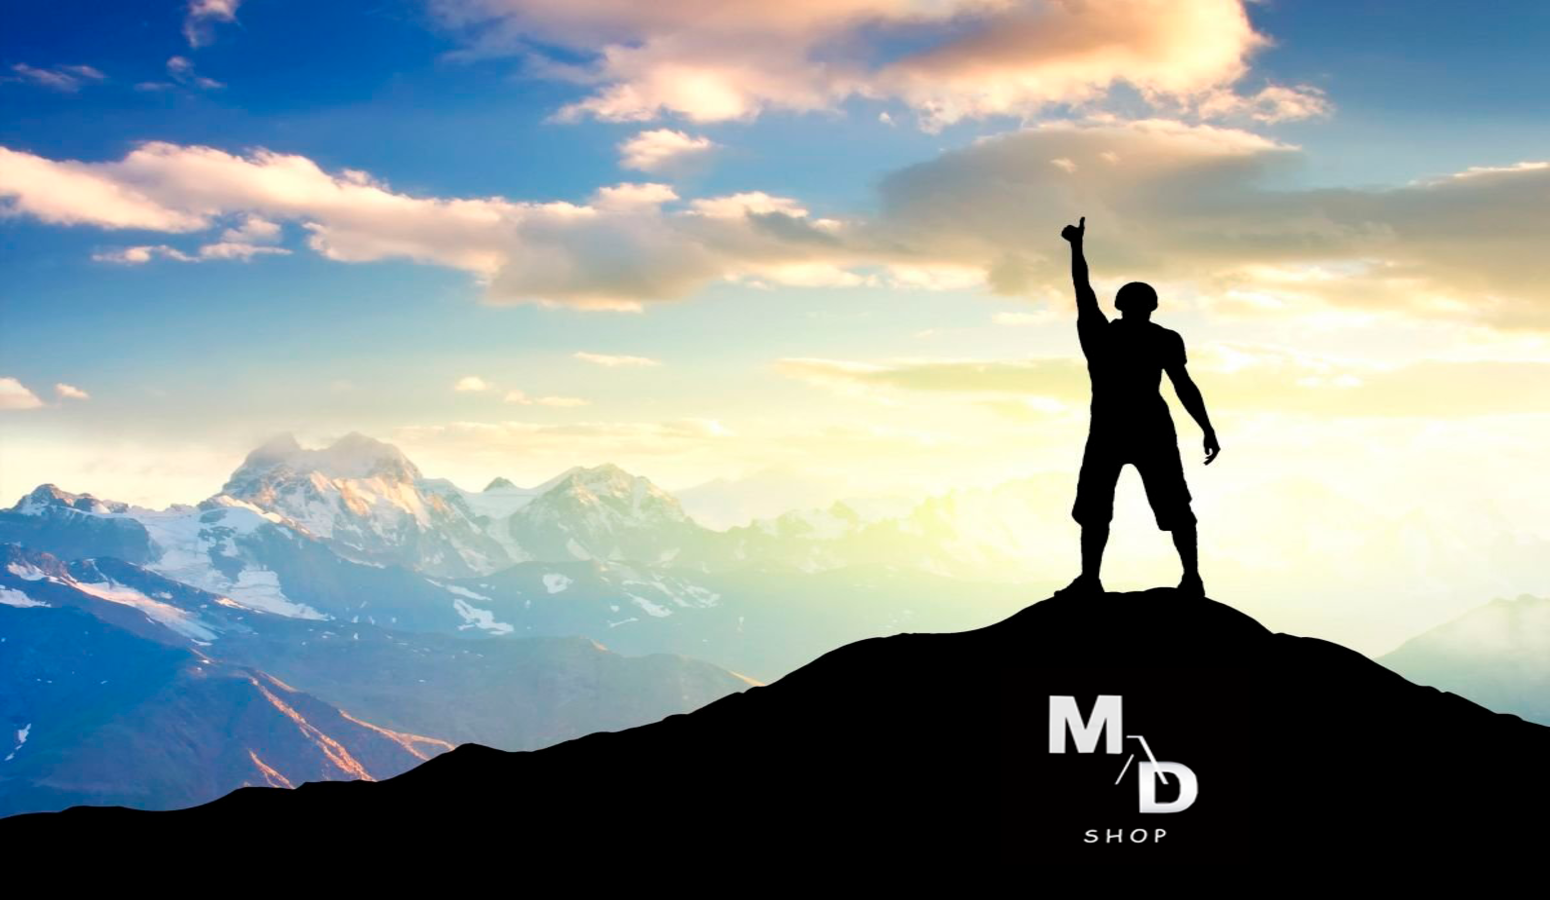
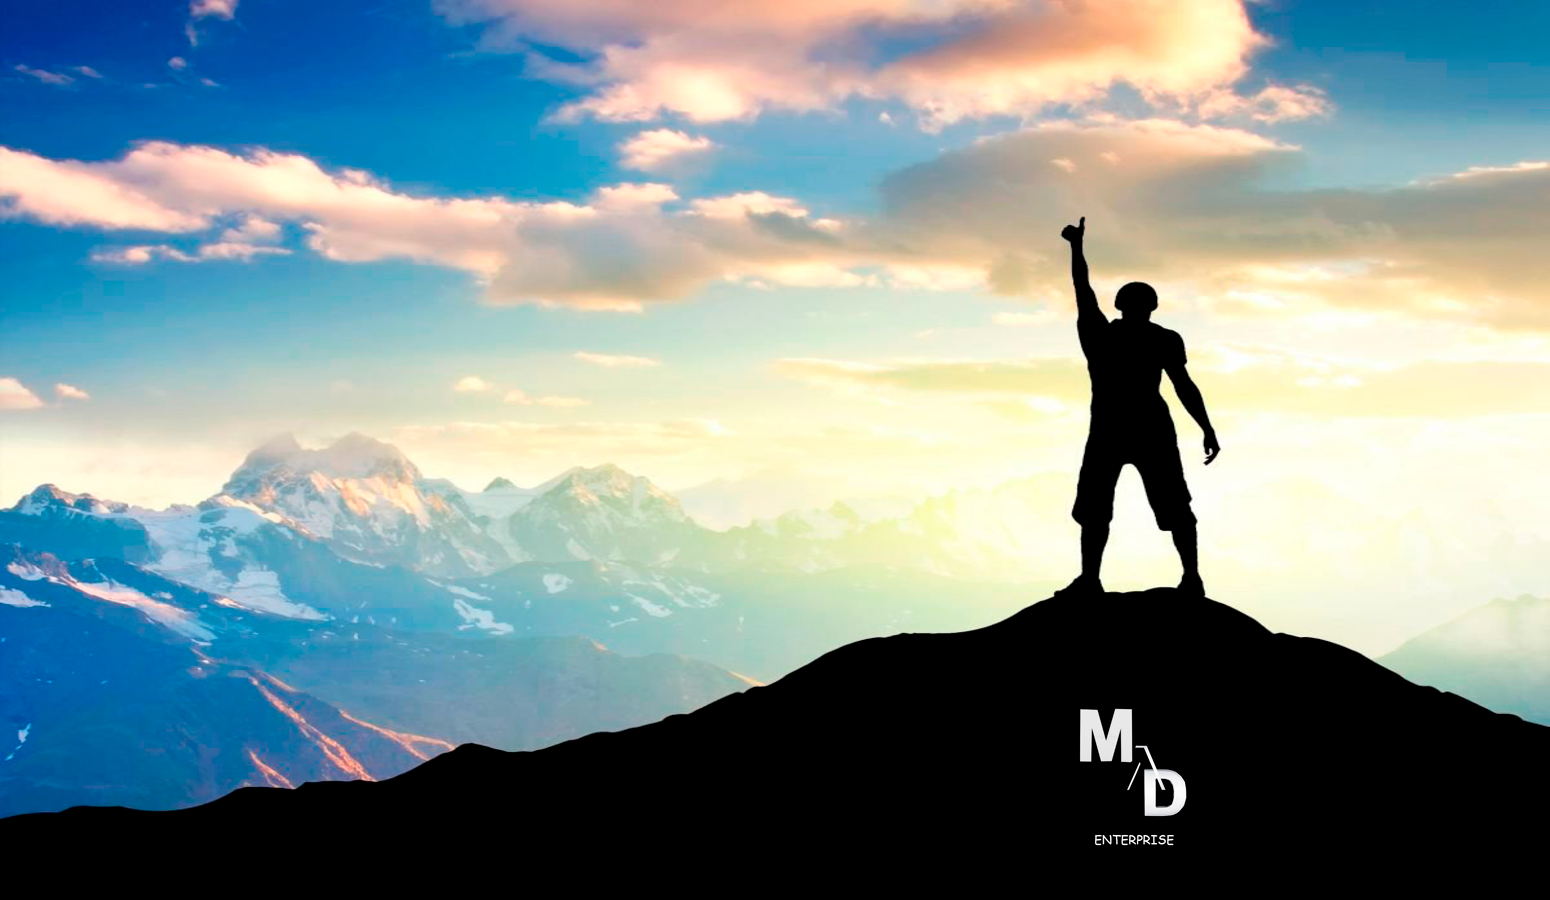
6º commit

diff --git a/src/paginas/sobreNosotros.js b/src/paginas/sobreNosotros.js
@@ -11,7 +11,7 @@ function Sobrenosotros() {
             <Cabecera/>
             <p className='fondoAbout'>
                 <h2 className='textoAbout' id='titleAbout'>Conócenos...</h2>
-                <p className='textoAbout'> Te preguntarás, ¿cómo surgió MAD Shop? Pues llegó un día que un alumno del Grado<br/>
+                <p className='textoAbout'> Te preguntarás, ¿cómo surgió MAD Enterprise? Pues llegó un día que un alumno del Grado<br/>
                     en Ingeniería de Sistemas Audiovisuales y Multimedia de la Escuela Técnica Superior de Ingeniería de<br/>
                     Telecomunicación de la Universidad Rey Juan Carlos, tenía que hacer su TFG para finalizar la Licenciatura.<br/>
                     Al principio, no sabía que hacer, pero un día leyó en un sitio web de informática de prestigio, que los<br/>
@@ -20,25 +20,25 @@ function Sobrenosotros() {
                     Eléctrónico, donde el usuario sí tuviera privacidad sobre sus datos. Para ello, el procedimiento sobre la privacidad que se<br/>
                     llevó a cabo fue, que todos los datos que el usuario pudiera meter (salvo usuario y contraseña necesarios para iniciar sesión)<br/>
                     se guardaran en la base de datos del cliente y, no en la del servidor como hacen la mayoría de los Comercios Electrónicos<br/>
-                    "mainstream". Aparte de la privacidad, otro de los motivos por el que decidió crear MAD Shop fue, para dar un enfoque más<br/>
+                    "mainstream". Aparte de la privacidad, otro de los motivos por el que decidió crear MAD Enterprise fue, para dar un enfoque más<br/>
                     futurible a los Comercios Electrónicos, poniendo especial énfasis en el diseño en 3D (por medio de la Tecnología A-Frame),<br/>
                     para que los iconos y todos los productos a la venta del Comercio Electrónico se vieran en 3D y, el usuario tuviera una<br/>
                     sensación de más realidad cuando estuviera comprando (hacerle ver como si estuviera en una tienda física de un Centro<br/>
                     Comercial o tienda de barrio). Por lo tanto, con la idea y el proyecto en mente, se puso a ello, desarrollando un esquema<br/>
                     teórico primero y luego, desarrollándolo de forma práctica. Por otro lado, hay que decir que fue un proyecto con mucha<br/>
-                    investigación, sobre la Tecnología A-Frame, sobre la Tecnología mySQL para el desarrollo de la base de datos, sobre la<br/>
-                    Tecnología NodeJS para el desarrollo del BackEnd y, sobre la Tecnología ReactJS para el desarrollo del FrontEnd. También<br/>
-                    la edición de fotos con Adobe Photoshop y GIFs.
+                    investigación, sobre la Tecnología A-Frame, sobre la Tecnología mySQL y phpMyAdmin para el desarrollo<br/>
+                    de la base de datos, sobre la Tecnología NodeJS para el desarrollo del BackEnd y, sobre la Tecnología<br/>
+                    ReactJS para el desarrollo del FrontEnd. También la edición de fotos con Adobe Photoshop y GIFs.
                     <br/>
                     <br/>
-                    Desde MAD Shop, si tenéis inseguridad a la hora de desarrollar un proyecto profesional,<br/>
+                    Desde MAD Enterprise, si tenéis inseguridad a la hora de desarrollar un proyecto profesional,<br/>
                     o no sabéis como hacerlo y por eso, os echáis para atrás, os decimos que no tengáis miedo al fracaso<br/>
                     por el que dirán. Lo que sí que debería ser negativo y de fracaso, es no haber intentado desarrollarlo<br/>
                     y, haber "tirado la toalla", sólo por ese miedo "ficticio" a ello.
                     <br/>
                     <br/>
-                    Así qué, ya sabes, lucha por tus objetivos profesionales y personales y, no dejes que guíen tu vida, ya qué el dueño de ella,
-                    ¡ERES TÚ!
+                    Así qué, ya sabes, lucha por tus objetivos profesionales y personales y, no dejes que guíen tu<br/>
+                    vida, ya qué el dueño de ella, ¡ERES TÚ!
                 </p>
             </p>
             <br/>

diff --git a/src/componentes/authCabecera.js b/src/componentes/authCabecera.js
@@ -3,21 +3,18 @@ import React from 'react';
 //-- Importamos el logo de MAD Enterprise.
 import madenterpriseLOGO from '../images/madenterprise.png';
 //-- Importamos Iconos React.
-import {BiWorld} from 'react-icons/bi';
-//-- Importamos el icono del carrito de compra.
-import Carrito from '../images/carrito.png';
-//-- Importamos el icono del cerrar sesión.
-import LogoOut from '../images/logoout.png';
+import {BiWorld, BiCartAdd} from 'react-icons/bi';
+import { AiOutlineLogout } from 'react-icons/ai';
 
 //-- Exportación de la Cabecera Autenticada del Comercio Electrónico para enrrutarlo y enlazarlo con su correspondiente destino.
 export default function authCabecera() {
     return(
         <div>
             <a href='/'><img src={madenterpriseLOGO} alt='Logo_MAD_Shop' className='logo'></img></a>
-            <button className='btnesAuth'><a href='/perfil'>Mi Perfil</a></button>
-            <button className='btnesAuth' id='btnCarrito'><a href='/'><img src={Carrito} alt='Carrito' className='componenteAuth'/></a></button>
-            <button className='btnesAuth' id='btnLogoOut'><a href='/'><img src={LogoOut} alt='LogoOut' className='componenteAuth'/></a></button>
-            <img src={BiWorld} alt='BiWorld' className='mundo' id='posMundo'/>
+            <button className='btnPerfil'><a href='/perfil'>Mi Perfil</a></button>
+            <button className='btnCarrito'><a href='/'><BiCartAdd className='componenteAuth'/></a></button>
+            <button className='btnLogoOut'><a href='/'><AiOutlineLogout className='componenteAuth'/></a></button>
+            <BiWorld className='mundo' id='posMundo'/>
             <select name="Idiomas" className='selectLang' id='posSelectLang'>
                 <option value="value1" selected>Español</option>
                 <option value="value2">Inglés</option>

diff --git a/src/index.css b/src/index.css
@@ -79,26 +79,29 @@ button {
   left: 860px;
 }
 /* Configuración del diseño CSS para la Cabecera Autenticada del Comercio Electrónico MAD Enterprise. */
-.btnesAuth {
+.btnPerfil {
   font-size: large;
   width: 140px;
   height: 40px;
   padding: 10px;
   position: relative;
-  left: 450px;
+  left: 430px;
   top: -60px;
 }
-#btnCarrito {
+.btnCarrito {
   position: relative;
   top: -38px;
+  left: 480px;
   background-color: transparent;
 }
-#btnLogoOut {
+.btnLogoOut {
   position: relative;
   top: -38px;
+  left: 530px;
   background-color: transparent;
 }
 .componenteAuth {
+  color: white;
   position: relative;
   top: -10px;
   width: 40px;
@@ -107,12 +110,12 @@ button {
 #posMundo {
   position: relative;
   top: -40px;
-  left: 730px;
+  left: 900px;
 }
 #posSelectLang {
   position: relative;
   top: -60px;
-  left: 740px;
+  left: 910px;
 }
 /* Configuración del diseño CSS del Cuerpo del Inicio del Comercio Electrónico MAD Enterprise. */
 .gifms {
@@ -486,14 +489,18 @@ input[type=number]::-webkit-outer-spin-button {
   height: 900px;
 }
 .textoAbout {
-  text-align: center;
-  width: 1000px;
-  height: 100px;
-  margin-left: 30px;
+  position: relative;
+  top: -20px;
+  text-align: left;
+  width: 1250px;
+  height: 80px;
+  margin-left: 15px;
 }
 #titleAbout {
+  text-align: center;
   position: relative;
-  top: 55px;
+  left: -230px;
+  top: 20px;
   size: xx-large;
 }
 /* Configuración del diseño CSS de la Sección Trabaja con Nosotros del Comercio Electrónico MAD Enterprise. */

diff --git a/src/paginas/empresas.registrarse.js b/src/paginas/empresas.registrarse.js
@@ -2,8 +2,8 @@
 import React from 'react';
 //-- Importación del botón inicio por si quiere volver al Inicio sin darse de alta.
 import BtnInicio from '../images/btnInicio.png';
-//-- Importamos el logo de MAD Shop.
-import madshopLOGO from '../images/madshop.png';
+//-- Importamos el logo de MAD Enterprise.
+import madenterpriseLOGO from '../images/madenterprise.png';
 //-- Importación del botón retroceder por si quiere volver a la pantalla anterior.
 import Retroceso from '../images/retroceso.png';
 
@@ -13,7 +13,7 @@ export default function empresasRegistrarse() {
         <div className='fondoRegistrarseEmpresa'>
             <div className='registrarse'>
                 <h1>Darse de alta como Empresa: </h1>
-                <img src={madshopLOGO} alt='madshopLOGO' className='madshopLOGO' id='posLogoRegistro'/>
+                <img src={madenterpriseLOGO} alt='madshopLOGO' className='madshopLOGO' id='posLogoRegistro'/>
                 <form method="post" className='formRegistroEmpresa'>
                     <label>
                         Nombre de la Empresa: <span><input type='text' className='anchoCamposRegistro' id='distanciaTopeEmpresa'></input></span>

diff --git a/src/paginas/clientes.login.js b/src/paginas/clientes.login.js
@@ -1,7 +1,7 @@
 //-- Importación del Elemento React para poder programar.
 import React, {useState} from 'react';
-//-- Importamos el logo de MAD Shop.
-import madshopLOGO from '../images/madshop.png';
+//-- Importamos el logo de MAD Enterprise.
+import madenterpriseLOGO from '../images/madenterprise.png';
 //-- Importación del botón inicio por si quiere volver al Inicio sin darse de alta.
 import BtnInicio from '../images/btnInicio.png';
 
@@ -22,7 +22,7 @@ export default function LoginClientes() {
             <h1 className='etiquetaLogin' id='Cliente'>Cliente</h1>
             <div className='login'>
                 <div className='tituloLogin'>INICIAR SESIÓN:</div>
-                <img src={madshopLOGO} alt='madshopLOGO' className='madshopLOGO' id='posLogoLogin'/>
+                <img src={madenterpriseLOGO} alt='madshopLOGO' className='madshopLOGO' id='posLogoLogin'/>
                 <label className='entradas'>Correo Electrónico:</label>
                 <input className='entradas' id='rellenoLogin' type='email' placeholder='Correo Electrónico....' value={email} onChange={cambiarEmail}/>
                 <label className='entradas'>Contraseña:</label>

diff --git a/src/paginas/empresas.login.js b/src/paginas/empresas.login.js
@@ -1,7 +1,7 @@
 //-- Importación del Elemento React para poder programar.
 import React, {useState} from 'react';
-//-- Importamos el logo de MAD Shop.
-import madshopLOGO from '../images/madshop.png';
+//-- Importamos el logo de MAD Enterprise.
+import madenterpriseLOGO from '../images/madenterprise.png';
 //-- Importación del botón inicio por si quiere volver al Inicio sin darse de alta.
 import BtnInicio from '../images/btnInicio.png';
 
@@ -22,7 +22,7 @@ export default function LoginEmpresas() {
             <h1 className='etiquetaLogin' id='Empresa'>Empresa</h1>
             <div className='login'>
                 <div className='tituloLogin'>INICIAR SESIÓN:</div>
-                <img src={madshopLOGO} alt='madshopLOGO' className='madshopLOGO' id='posLogoLogin'/>
+                <img src={madenterpriseLOGO} alt='madshopLOGO' className='madshopLOGO' id='posLogoLogin'/>
                 <label className='entradas'>Correo Electrónico:</label>
                 <input className='entradas' id='rellenoLogin' type='email' placeholder='Correo Electrónico....' value={email} onChange={cambiarEmail}/>
                 <label className='entradas'>Contraseña:</label>

diff --git a/src/paginas/clientes.registrarse.js b/src/paginas/clientes.registrarse.js
@@ -2,8 +2,8 @@
 import React from 'react';
 //-- Importación del botón inicio por si quiere volver al Inicio sin darse de alta.
 import BtnInicio from '../images/btnInicio.png';
-//-- Importamos el logo de MAD Shop.
-import madshopLOGO from '../images/madshop.png';
+//-- Importamos el logo de MAD Enterprise.
+import madenterpriseLOGO from '../images/madenterprise.png';
 //-- Importación del botón retroceder por si quiere volver a la pantalla anterior.
 import Retroceso from '../images/retroceso.png';
 
@@ -13,7 +13,7 @@ export default function clientesRegistrarse() {
         <div className='fondoRegistrarseCliente'>
             <div className='registrarse'>
                 <h1>Darse de alta como Cliente: </h1>
-                <img src={madshopLOGO} alt='madshopLOGO' className='madshopLOGO'/>
+                <img src={madenterpriseLOGO} alt='madshopLOGO' className='madshopLOGO'/>
                 <form method="post" className='formRegistroCliente'>
                     <label>
                         Nombre: <span><input type='text' className='anchoCamposRegistro' id='distanciaTopeNombre'></input></span>

diff --git a/src/componentes/cabecera.js b/src/componentes/cabecera.js
@@ -1,8 +1,8 @@
 //-- Importación del Elemento React para poder programar.
 import React from 'react';
 //-- Importamos Iconos React.
-import {BiWorld} from 'react-icons/bi';
-//-- Importamos el logo de MAD Shop.
+import { BiWorld } from 'react-icons/bi';
+//-- Importamos el logo de MAD Enterprise.
 import madenterpriseLOGO from '../images/madenterprise.png';
 
 //-- Exportación de la Cabecera del Comercio Electrónico para enrrutarlo y enlazarlo con todas las páginas.
@@ -12,7 +12,7 @@ export default function Cabecera() {
             <a href='/'><img src={madenterpriseLOGO} alt='Logo_MAD_Shop' className='logo'/></a>
             <button className='btnesInicio'><a href='/login'>Iniciar Sesión</a></button>
             <button className='btnesInicio' id='btnRegistrarse'><a href='/registrarse'>Registrarse</a></button>
-            <img src={BiWorld} alt='BiWorld' className='mundo'/>
+            <BiWorld className='mundo'/>
             <select name="Idiomas" className='selectLang'>
                 <option value="value1" selected>Español</option>
                 <option value="value2">Inglés</option>

diff --git a/src/paginas/contacto.js b/src/paginas/contacto.js
@@ -15,7 +15,7 @@ function Contacto() {
                 <h2 className='contacto'>Para más información....</h2>
                 <br/>
                 <p className='contacto' id='datosEmail'>Escríbenos al email: 
-                    <span className='contacto' id='email'>shop.mad@yahoo.com</span>
+                    <span className='contacto' id='email'>info@madenterprise.com</span>
                 </p>
                 <img src={ContactoImg} alt='contactoImg' id='contactoImg'/>
             </p>
